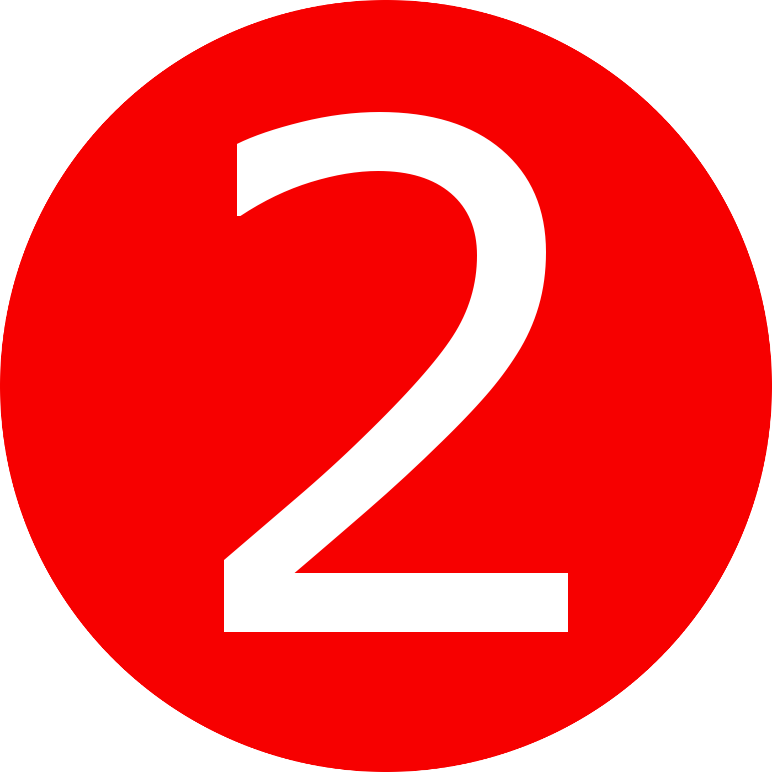
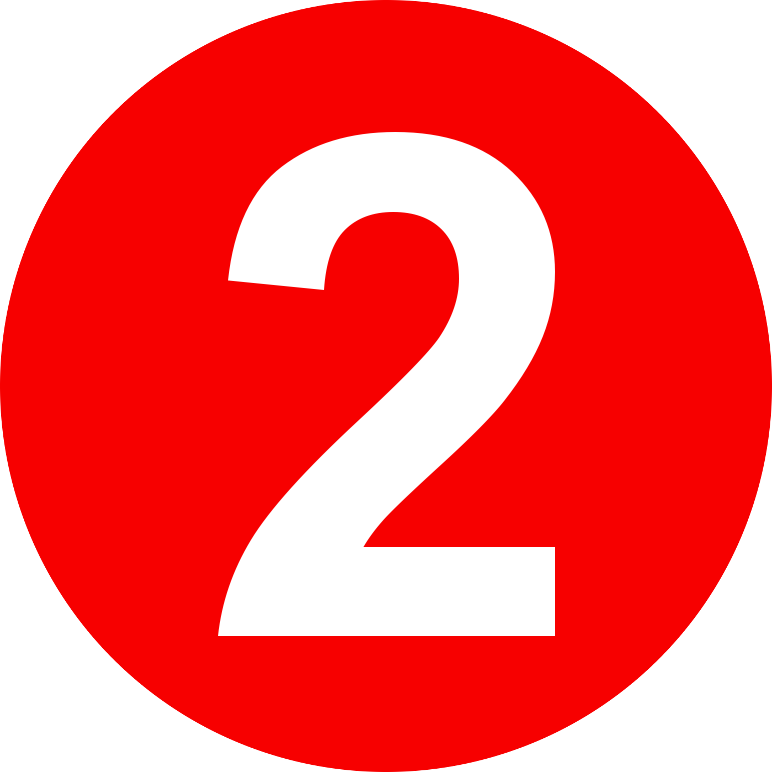
No of target on upper panel is changed to number of targets left, if 0 targets left it will display 0 in a red circle, and if also all tokens are passed it will display 0 in a green circle.

Changed region(s): [[0.2798, 0.1244, 0.6839, 0.6839], [0.2798, 0.2487, 0.7461, 0.8394], [0.3109, 0.6839, 0.342, 0.715]]

diff --git a/src/core/ArenaFrame.java b/src/core/ArenaFrame.java
@@ -62,6 +62,7 @@ class ArenaFrame extends JFrame{
         createPanels();
         this.setLayout(new GridLayout(map.getHeight()+1,1));
 
+        //TODO:Sizes will be automated not hard-coded
         setSize(500,600);
         setVisible(true);
         setDefaultCloseOperation(JFrame.EXIT_ON_CLOSE);
@@ -100,6 +101,58 @@ class ArenaFrame extends JFrame{
         System.out.println("map.isGameFinished(): " + map.isGameFinished());
 
     }
+
+    private void createMapFromFile()
+    {
+        map = new GameMap(width, height);
+        String fileName = "levels/bonus/1" + MAP_FILE_EXTENSION;
+        BufferedReader br = null;
+        Token token = null;
+        try {
+            br = new BufferedReader(new FileReader(fileName));
+
+            String line = br.readLine();
+            int rowCount = 0;
+            while(line != null)
+            {
+
+                String[] shortNames = line.split(",");
+                int colCount = 0;
+                for(String shortName: shortNames) {
+                    if (rowCount < height) //tokens inside Map
+                    {
+                        token = getTokenFromShortName(shortName);
+                        if(!shortName.equals(""))
+                        {
+                            token.setLocationFixed(true); //it is located in map, not waitingList
+                            map.addToken(token, new Point(colCount, rowCount));
+
+                        }
+                    }
+                    else if(rowCount == height) //waitingList
+                    {
+                        token = getTokenFromShortName(shortName);
+                        map.addWaitingToken(token);
+                    }
+                    else if(rowCount == height + 1) //noOfTargets
+                    {
+                        map.setNoOfTargets(Integer.parseInt(shortName));
+                    }
+                    colCount ++;
+                }
+
+                line = br.readLine();
+                rowCount++;
+            }
+
+            br.close();
+        } catch (IOException e) {
+            e.printStackTrace();
+        }
+
+
+    }
+
     //TODO: All waiting tokens are !orientationFixed (all images in the waiting list are Question Marked), we can fix this later if needed. in the original game they are all Question Mark
     private void map1()
     {
@@ -179,56 +232,7 @@ class ArenaFrame extends JFrame{
         map.setNoOfTargets(2);
     }
 
-    private void createMapFromFile()
-    {
-        map = new GameMap(width, height);
-        String fileName = "levels/bonus/1" + MAP_FILE_EXTENSION;
-        BufferedReader br = null;
-        Token token = null;
-        try {
-            br = new BufferedReader(new FileReader(fileName));
 
-            String line = br.readLine();
-            int rowCount = 0;
-            while(line != null)
-            {
-
-                String[] shortNames = line.split(",");
-                int colCount = 0;
-                for(String shortName: shortNames) {
-                    if (rowCount < height) //tokens inside Map
-                    {
-                        token = getTokenFromShortName(shortName);
-                        if(!shortName.equals(""))
-                        {
-                            token.setLocationFixed(true); //it is located in map, not waitingList
-                            map.addToken(token, new Point(colCount, rowCount));
-
-                        }
-                    }
-                    else if(rowCount == height) //waitingList
-                    {
-                        token = getTokenFromShortName(shortName);
-                        map.addWaitingToken(token);
-                    }
-                    else if(rowCount == height + 1) //noOfTargets
-                    {
-                        map.setNoOfTargets(Integer.parseInt(shortName));
-                    }
-                    colCount ++;
-                }
-
-                line = br.readLine();
-                rowCount++;
-            }
-
-            br.close();
-        } catch (IOException e) {
-            e.printStackTrace();
-        }
-
-
-    }
 
     public Token getTokenFromShortName(String shortName)
     {

diff --git a/src/core/GameMap.java b/src/core/GameMap.java
@@ -23,7 +23,7 @@ public class GameMap {
 		return noOfTargets;
 	}
 
-	private int noOfTargets=1;
+	private static int noOfTargets=1;
 	private static Token[][] tokens;
 	private static ArrayList<Token> waitingTokens; // Tokens that are not in the initial map, but waiting to be added by the user
 
@@ -227,7 +227,7 @@ public class GameMap {
 		//TODO: check if the LaserBeam loops indefinitely, not sure if it is possible???
 	}
 
-	private int getWantedMandatoryTargets()
+	private static int getWantedMandatoryTargets()
 	{
 		int noOfWantedMandatoryTargets = 0;
 		for(Token[] token_arr : tokens)
@@ -243,23 +243,38 @@ public class GameMap {
 		return noOfWantedMandatoryTargets;
 	}
 
+	public static int getNoOfRandomTargetsHit()
+	{
+		int noOfRandomTargetsHit = 0;
+		for(LaserBeam beam: beams)
+		{
+			if(beam.getDirection() == Direction.TARGET_HIT)
+				noOfRandomTargetsHit++;
+		}
+		return noOfRandomTargetsHit;
+	}
+
+	public static int getNoOfMandatoryTargetsHit()
+	{
+		int noOfMandatoryTargetsHit = 0;
+		for(LaserBeam beam: beams)
+		{
+			if( beam.getDirection() == Direction.MANDATORY_TARGET_HIT)
+				noOfMandatoryTargetsHit++;
+		}
+		return noOfMandatoryTargetsHit;
+	}
+
 	//checksIfAllWantedTargetsHitAndAllTokensArePassed
-	public boolean isGameFinished()
+	public static boolean isGameFinished()
 	{
 		if(getActiveTokensCount() > 0)
 			return false;
 		if(!isAllTokensPassed())
 			return false;
 		//TODO: not tested
-		int noOfMandatoryTargetsHit = 0;
-		int noOfRandomTargetsHit = 0;
-		for(LaserBeam beam: beams)
-		{
-			if(beam.getDirection() == Direction.TARGET_HIT)
-				noOfRandomTargetsHit++;
-			else if( beam.getDirection() == Direction.MANDATORY_TARGET_HIT)
-				noOfMandatoryTargetsHit++;
-		}
+		int noOfMandatoryTargetsHit = getNoOfMandatoryTargetsHit();
+		int noOfRandomTargetsHit = getNoOfRandomTargetsHit();
 
 		return (noOfMandatoryTargetsHit == getWantedMandatoryTargets() &&
 				(noOfMandatoryTargetsHit + noOfRandomTargetsHit) == noOfTargets);

diff --git a/src/core/WaitingListPanel.java b/src/core/WaitingListPanel.java
@@ -31,7 +31,9 @@ class WaitingListPanel extends JPanel {
     @Override
     protected void paintComponent(Graphics g) {
         super.paintComponent(g);
-
+        int noOfTargetsDisplayed = noOfTargets - (GameMap.getNoOfRandomTargetsHit() + GameMap.getNoOfMandatoryTargetsHit());
+        if(noOfTargetsDisplayed < 0)
+            noOfTargetsDisplayed = 0;
         Graphics2D g2d = (Graphics2D) g.create();
         String imgName = "";
         if (t != null)
@@ -41,9 +43,13 @@ class WaitingListPanel extends JPanel {
             else
                 imgName = t.getGrayedWaitingTokenImageName();
         }
-        else if(noOfTargets > 0)
+        else if(noOfTargetsDisplayed == 0 && GameMap.isGameFinished())
         {
-            imgName = "" + noOfTargets;
+            imgName = "0_green";
+        }
+        else if(noOfTargetsDisplayed >= 0)
+        {
+            imgName = "" + noOfTargetsDisplayed;
         }
         else
         {
